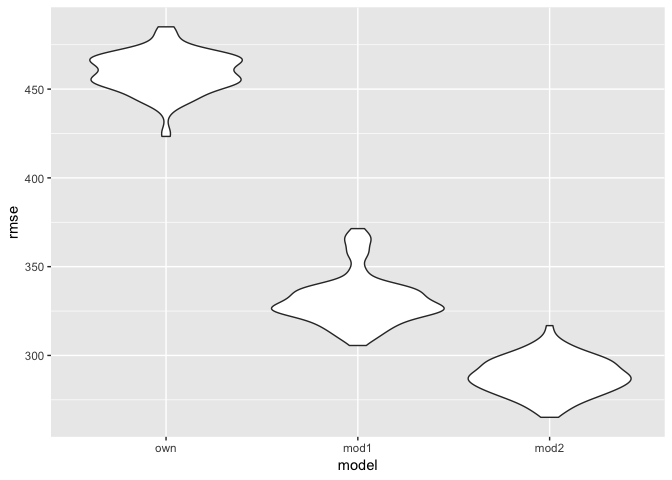
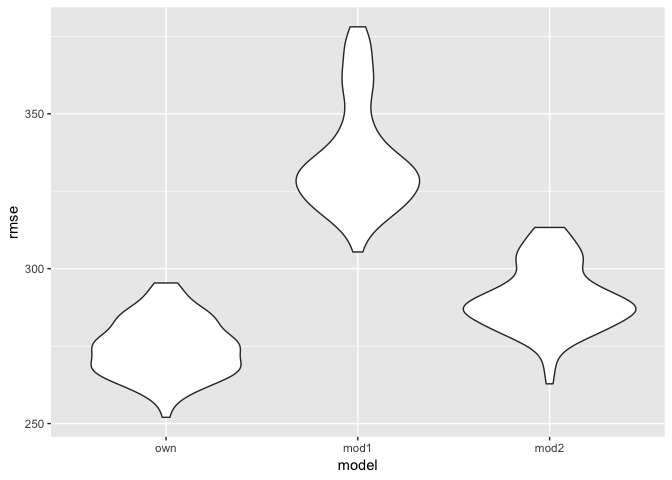
model building changes

diff --git a/p8105_hw6_xl2836.md b/p8105_hw6_xl2836.md
@@ -10,7 +10,7 @@ library(tidyverse)
     ## ── Attaching packages ──────────────────────────────────────────────────────────────────────── tidyverse 1.2.1 ──
 
     ## ✔ ggplot2 3.0.0     ✔ purrr   0.2.5
-    ## ✔ tibble  1.4.2     ✔ dplyr   0.7.6
+    ## ✔ tibble  1.4.2     ✔ dplyr   0.7.8
     ## ✔ tidyr   0.8.1     ✔ stringr 1.3.1
     ## ✔ readr   1.1.1     ✔ forcats 0.3.0
 
@@ -246,71 +246,203 @@ head(birthweight_df)
 Propose model
 -------------
 
-Hypothesis: Assume `babysex`, `fincome` and `gaweeks` are three main factors which influence baby's birth weight.
-
-First, we test `babysex`
+We used stepwise regression to find out a suitable model.
 
 ``` r
-birthweight_df %>% 
-  ggplot(aes(babysex, bwt, group = babysex)) +
-  geom_boxplot()
+fitted_model <- lm(bwt ~ ., data = birthweight_df)
+step(fitted_model, direction = 'both')
 ```
 
-![](p8105_hw6_xl2836_files/figure-markdown_github/unnamed-chunk-9-1.png)
+    ## Start:  AIC=48723.14
+    ## bwt ~ babysex + bhead + blength + delwt + fincome + frace + gaweeks + 
+    ##     malform + menarche + mheight + momage + mrace + parity + 
+    ##     pnumlbw + pnumsga + ppbmi + ppwt + smoken + wtgain
+    ## 
+    ## 
+    ## Step:  AIC=48723.14
+    ## bwt ~ babysex + bhead + blength + delwt + fincome + frace + gaweeks + 
+    ##     malform + menarche + mheight + momage + mrace + parity + 
+    ##     pnumlbw + pnumsga + ppbmi + ppwt + smoken
+    ## 
+    ## 
+    ## Step:  AIC=48723.14
+    ## bwt ~ babysex + bhead + blength + delwt + fincome + frace + gaweeks + 
+    ##     malform + menarche + mheight + momage + mrace + parity + 
+    ##     pnumlbw + ppbmi + ppwt + smoken
+    ## 
+    ## 
+    ## Step:  AIC=48723.14
+    ## bwt ~ babysex + bhead + blength + delwt + fincome + frace + gaweeks + 
+    ##     malform + menarche + mheight + momage + mrace + parity + 
+    ##     ppbmi + ppwt + smoken
+    ## 
+    ##            Df Sum of Sq       RSS   AIC
+    ## - malform   1      1320 321413817 48721
+    ## - ppbmi     1      7571 321420068 48721
+    ## - momage    1     32877 321445374 48722
+    ## - mheight   1     69489 321481986 48722
+    ## - menarche  1    108896 321521392 48723
+    ## - ppwt      1    135650 321548147 48723
+    ## <none>                  321412497 48723
+    ## - mrace     1    180162 321592659 48724
+    ## - fincome   1    204538 321617035 48724
+    ## - parity    1    412356 321824853 48727
+    ## - babysex   1    859882 322272379 48733
+    ## - gaweeks   1   4636561 326049058 48783
+    ## - smoken    1   4906466 326318962 48787
+    ## - frace     4   6993136 328405633 48809
+    ## - delwt     1   8061047 329473544 48829
+    ## - blength   1 102002857 423415353 49918
+    ## - bhead     1 106707816 428120312 49966
+    ## 
+    ## Step:  AIC=48721.15
+    ## bwt ~ babysex + bhead + blength + delwt + fincome + frace + gaweeks + 
+    ##     menarche + mheight + momage + mrace + parity + ppbmi + ppwt + 
+    ##     smoken
+    ## 
+    ##            Df Sum of Sq       RSS   AIC
+    ## - ppbmi     1      7525 321421342 48719
+    ## - momage    1     33166 321446983 48720
+    ## - mheight   1     69315 321483132 48720
+    ## - menarche  1    109185 321523001 48721
+    ## - ppwt      1    135587 321549403 48721
+    ## <none>                  321413817 48721
+    ## - mrace     1    180322 321594138 48722
+    ## - fincome   1    203924 321617741 48722
+    ## + malform   1      1320 321412497 48723
+    ## - parity    1    412160 321825977 48725
+    ## - babysex   1    859070 322272887 48731
+    ## - gaweeks   1   4635430 326049246 48781
+    ## - smoken    1   4905414 326319230 48785
+    ## - frace     4   6994994 328408811 48807
+    ## - delwt     1   8076910 329490727 48827
+    ## - blength   1 102017099 423430916 49916
+    ## - bhead     1 106719594 428133410 49964
+    ## 
+    ## Step:  AIC=48719.26
+    ## bwt ~ babysex + bhead + blength + delwt + fincome + frace + gaweeks + 
+    ##     menarche + mheight + momage + mrace + parity + ppwt + smoken
+    ## 
+    ##            Df Sum of Sq       RSS   AIC
+    ## - momage    1     33768 321455110 48718
+    ## - menarche  1    110834 321532176 48719
+    ## <none>                  321421342 48719
+    ## - mrace     1    181654 321602996 48720
+    ## - fincome   1    205498 321626840 48720
+    ## + ppbmi     1      7525 321413817 48721
+    ## + malform   1      1273 321420068 48721
+    ## - parity    1    410604 321831945 48723
+    ## - babysex   1    857801 322279143 48729
+    ## - mheight   1   1037401 322458743 48731
+    ## - ppwt      1   2910951 324332292 48756
+    ## - gaweeks   1   4632739 326054080 48779
+    ## - smoken    1   4909681 326331023 48783
+    ## - frace     4   6987845 328409187 48805
+    ## - delwt     1   8072572 329493914 48825
+    ## - blength   1 102027636 423448978 49914
+    ## - bhead     1 106866482 428287824 49964
+    ## 
+    ## Step:  AIC=48717.71
+    ## bwt ~ babysex + bhead + blength + delwt + fincome + frace + gaweeks + 
+    ##     menarche + mheight + mrace + parity + ppwt + smoken
+    ## 
+    ##            Df Sum of Sq       RSS   AIC
+    ## - menarche  1     92093 321547203 48717
+    ## <none>                  321455110 48718
+    ## - mrace     1    182821 321637931 48718
+    ## - fincome   1    255183 321710292 48719
+    ## + momage    1     33768 321421342 48719
+    ## + ppbmi     1      8127 321446983 48720
+    ## + malform   1      1558 321453551 48720
+    ## - parity    1    430203 321885313 48722
+    ## - babysex   1    848047 322303157 48727
+    ## - mheight   1   1035517 322490626 48730
+    ## - ppwt      1   2883480 324338589 48754
+    ## - gaweeks   1   4691755 326146864 48779
+    ## - smoken    1   4915164 326370274 48782
+    ## - frace     4   7591202 329046311 48811
+    ## - delwt     1   8042149 329497259 48823
+    ## - blength   1 101995731 423450841 49912
+    ## - bhead     1 106914493 428369603 49962
+    ## 
+    ## Step:  AIC=48716.96
+    ## bwt ~ babysex + bhead + blength + delwt + fincome + frace + gaweeks + 
+    ##     mheight + mrace + parity + ppwt + smoken
+    ## 
+    ##            Df Sum of Sq       RSS   AIC
+    ## <none>                  321547203 48717
+    ## - mrace     1    180064 321727267 48717
+    ## + menarche  1     92093 321455110 48718
+    ## - fincome   1    259196 321806399 48718
+    ## + momage    1     15027 321532176 48719
+    ## + ppbmi     1      9496 321537707 48719
+    ## + malform   1      1742 321545461 48719
+    ## - parity    1    421852 321969055 48721
+    ## - babysex   1    852888 322400091 48726
+    ## - mheight   1    974834 322522036 48728
+    ## - ppwt      1   2876741 324423943 48754
+    ## - gaweeks   1   4677421 326224624 48778
+    ## - smoken    1   4944978 326492181 48781
+    ## - frace     4   7564700 329111903 48810
+    ## - delwt     1   8178108 329725311 48824
+    ## - blength   1 102190532 423737735 49913
+    ## - bhead     1 106832496 428379698 49961
 
-According to the results, sex has little influence on baby's birh weight. Then, we test `fincome`.
+    ## 
+    ## Call:
+    ## lm(formula = bwt ~ babysex + bhead + blength + delwt + fincome + 
+    ##     frace + gaweeks + mheight + mrace + parity + ppwt + smoken, 
+    ##     data = birthweight_df)
+    ## 
+    ## Coefficients:
+    ## (Intercept)      babysex        bhead      blength        delwt  
+    ##  -6106.5802      28.6699     130.8611      74.9660       4.1184  
+    ##     fincome       frace2       frace3       frace4       frace8  
+    ##      0.3273    -113.9975     -17.4099     -42.6294     -27.3182  
+    ##     gaweeks      mheight        mrace       parity         ppwt  
+    ##     11.6108       6.4718     -22.3184      96.2006      -2.6614  
+    ##      smoken  
+    ##     -4.7822
+
+So one of suitable model is `lm(formula = bwt ~ babysex + bhead + blength + delwt + fincome + frace + gaweeks + mheight + mrace + parity + ppwt + smoken, data = birthweight_df)`
 
 ``` r
-birthweight_df %>% 
-  ggplot(aes(fincome, bwt)) +
-  geom_point() +
-  geom_smooth()
-```
-
-    ## `geom_smooth()` using method = 'gam' and formula 'y ~ s(x, bs = "cs")'
-
-![](p8105_hw6_xl2836_files/figure-markdown_github/unnamed-chunk-10-1.png)
-
-The plot above shows family monthly income influence average birth weight of baby. Finally, we test `gaweeks`.
-
-``` r
-birthweight_df %>% 
-  ggplot(aes(gaweeks, bwt)) +
-  geom_point() +
-  geom_smooth()
-```
-
-    ## `geom_smooth()` using method = 'gam' and formula 'y ~ s(x, bs = "cs")'
-
-![](p8105_hw6_xl2836_files/figure-markdown_github/unnamed-chunk-11-1.png)
-
-Gestational age seems to influence baby's birth weight as well. So we create models with three factors. As these three factor have no relationship with each other, we treated them as main effects only.
-
-``` r
-own_model = lm(bwt ~ babysex + fincome + gaweeks, data = birthweight_df) 
+own_model = lm(formula = bwt ~ babysex + bhead + blength + delwt + fincome + frace + gaweeks + mheight + mrace + parity + ppwt + smoken, data = birthweight_df) 
 
 broom::tidy(own_model)
 ```
 
-    ## # A tibble: 4 x 5
-    ##   term        estimate std.error statistic   p.value
-    ##   <chr>          <dbl>     <dbl>     <dbl>     <dbl>
-    ## 1 (Intercept)   584.      89.8        6.51 8.64e- 11
-    ## 2 babysex       -94.6     14.0       -6.75 1.62e- 11
-    ## 3 fincome         2.16     0.271      7.97 1.96e- 15
-    ## 4 gaweeks        65.3      2.23      29.3  3.53e-172
+    ## # A tibble: 16 x 5
+    ##    term         estimate std.error statistic   p.value
+    ##    <chr>           <dbl>     <dbl>     <dbl>     <dbl>
+    ##  1 (Intercept) -6107.      140.      -43.5   0.       
+    ##  2 babysex        28.7       8.46      3.39  7.12e-  4
+    ##  3 bhead         131.        3.45     37.9   8.12e-272
+    ##  4 blength        75.0       2.02     37.1   1.42e-261
+    ##  5 delwt           4.12      0.393    10.5   1.95e- 25
+    ##  6 fincome         0.327     0.175     1.87  6.19e-  2
+    ##  7 frace2       -114.       17.0      -6.72  2.01e- 11
+    ##  8 frace3        -17.4      46.9      -0.371 7.11e-  1
+    ##  9 frace4        -42.6      43.0      -0.991 3.22e-  1
+    ## 10 frace8        -27.3      73.4      -0.372 7.10e-  1
+    ## 11 gaweeks        11.6       1.46      7.93  2.71e- 15
+    ## 12 mheight         6.47      1.79      3.62  2.96e-  4
+    ## 13 mrace         -22.3      14.3      -1.56  1.20e-  1
+    ## 14 parity         96.2      40.4       2.38  1.72e-  2
+    ## 15 ppwt           -2.66      0.428    -6.22  5.40e- 10
+    ## 16 smoken         -4.78      0.586    -8.16  4.48e- 16
 
 ``` r
 broom::glance(own_model)
 ```
 
     ## # A tibble: 1 x 11
-    ##   r.squared adj.r.squared sigma statistic   p.value    df  logLik    AIC
-    ## *     <dbl>         <dbl> <dbl>     <dbl>     <dbl> <int>   <dbl>  <dbl>
-    ## 1     0.191         0.190  461.      341. 9.08e-199     4 -32789. 65588.
+    ##   r.squared adj.r.squared sigma statistic p.value    df  logLik    AIC
+    ## *     <dbl>         <dbl> <dbl>     <dbl>   <dbl> <int>   <dbl>  <dbl>
+    ## 1     0.718         0.717  273.      733.       0    16 -30504. 61041.
     ## # ... with 3 more variables: BIC <dbl>, deviance <dbl>, df.residual <int>
 
-Now, we show the plot of model residuals against fitted values.
+According to the p-value and r-square, we can conclude that this model is effective. Now, we show the plot of model residuals against fitted values.
 
 ``` r
 birthweight_df %>% 
@@ -320,7 +452,7 @@ birthweight_df %>%
   geom_hex()
 ```
 
-![](p8105_hw6_xl2836_files/figure-markdown_github/unnamed-chunk-13-1.png)
+![](p8105_hw6_xl2836_files/figure-markdown_github/unnamed-chunk-11-1.png)
 
 Cross validation
 ----------------
@@ -335,7 +467,7 @@ cv_df =
 ``` r
 cv_df = 
   cv_df %>% 
-  mutate(own_mod = map(train, ~lm(bwt ~ babysex + fincome + gaweeks, data = .x)),
+  mutate(own_mod = map(train, ~lm(bwt ~ babysex + bhead + blength + delwt + fincome + frace + gaweeks + mheight + mrace + parity + ppwt + smoken, data = .x)),
          compared_mod1 = map(train, ~lm(bwt ~ blength + gaweeks, data = .x)),
          compared_mod2 = map(train, ~lm(bwt ~ bhead + blength + babysex + bhead*blength + blength*babysex + babysex*bhead + bhead*blength*babysex, data = .x))) %>% 
   mutate(rmse_own = map2_dbl(own_mod, test, ~rmse(model = .x, data = .y)),
@@ -354,4 +486,4 @@ cv_df %>%
   ggplot(aes(x = model, y = rmse)) + geom_violin()
 ```
 
-![](p8105_hw6_xl2836_files/figure-markdown_github/unnamed-chunk-16-1.png)
+![](p8105_hw6_xl2836_files/figure-markdown_github/unnamed-chunk-14-1.png)
